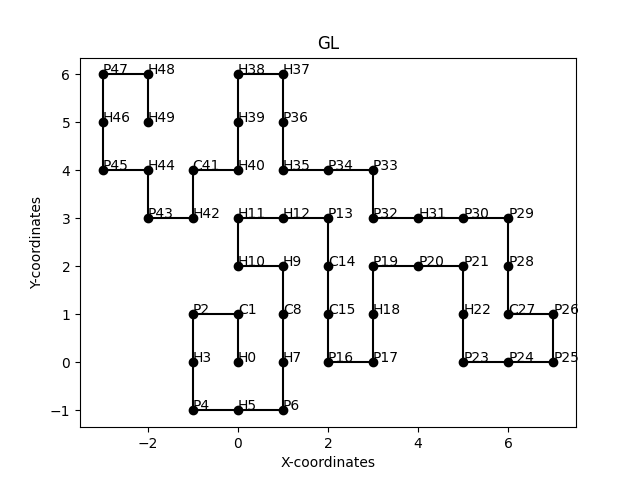
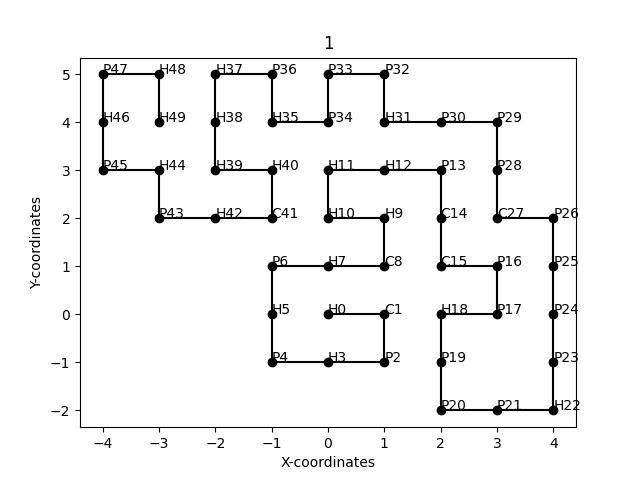
greedy lookahead works

diff --git a/code/algorithms/greedy.py b/code/algorithms/greedy.py
@@ -1,5 +1,5 @@
 from .random import Random
-from .depth_first import DepthFirst
+from .depth_first import DepthFirst, GreedyDepth
 from code.classes.protein import Protein
 from code.classes.aminoacid import AminoAcid
 import random
@@ -165,6 +165,9 @@ class Greedy(Random):
                     self.i -= 1
                     self.positionX = prev_coordinates[0]
                     self.positionY = prev_coordinates[1]
+                elif type(temp_i) is dict:
+                    protein.positions = temp_i
+                    break
                 else:
                     self.i = temp_i
                     self.positionX = temp_positionX
@@ -174,7 +177,7 @@ class Greedy(Random):
             self.add_solution(protein)
 
 
-class GreedyLookahead(Greedy, DepthFirst):
+class GreedyLookahead(Greedy, GreedyDepth):
     """
     The greedy lookahead algorithm will configure an X amount of amino acids at once
     to calculate a corresponding stability score.
@@ -184,33 +187,40 @@ class GreedyLookahead(Greedy, DepthFirst):
     def __init__(self, protein, lookahead):
         super().__init__(protein)
         self.lookahead = lookahead
-        self.states = []
 
 
     def get_best_fold(self, protein):
         '''
         Get's the best fold for the current amino acid, according to the depth first results.
         '''
+        start_state = self.get_start_state()
+
         # Run depth first with the current folded protein and the lookahead amino's
-        self.run_depthfirst()
+        depth_first = GreedyDepth(start_state)
+        depth_first.run_depthfirst()
 
         # Isolate information from best result from depth first algorithm
-        best_solution = self.get_best_solution()
+        best_solution = depth_first.get_best_solution()
 
         if not best_solution:
             return None
 
         dict_best = best_solution[1]
         best_values = list(dict_best.values())
-    
-        # Calculate the fold of the next amino acid in the protein
-        curr_amino = best_values[-self.lookahead]
+
+        # Terminate the depth first early when the last amino acids are positioned.
+        if len(dict_best) == len(protein.aminoacids):
+            return dict_best
+
+        curr_amino = best_values[-self.lookahead-1]
+        
         fold = curr_amino.folding
+        del start_state
 
         return fold
 
 
-    def initiate(self):
+    def get_start_state(self):
         '''
         Initiates first states in the stack for the depth first algorithm.
         '''
@@ -227,5 +237,5 @@ class GreedyLookahead(Greedy, DepthFirst):
                 remove = start_state.aminoacids[-1]
                 start_state.aminoacids.remove(remove)
 
-        # Add current state of the protein to the stack of depth first
-        self.states.append(start_state)
+        # Return part of the protein for the correct state state in depth first
+        return start_state

diff --git a/code/algorithms/depth_first.py b/code/algorithms/depth_first.py
@@ -27,12 +27,13 @@ class DepthFirst():
         '''
         Creates all possible child-states and adds them to the list of states.
         '''
-        last_folding = curr_state.aminoacids[curr_state.depth_index].folding
+        last_folding = curr_state.aminoacids[curr_state.depth_index-1].folding
         
         # Makes sure the amino acid does not fold back on itself
         if last_folding is not None:
-            last_folding = last_folding * -1
-            curr_state.depth_values.remove(last_folding)
+            last_folding *= -1
+            if last_folding in curr_state.depth_values:
+                curr_state.depth_values.remove(last_folding)
 
         # Gets a folding direction (value) from the possible foldings
         if curr_state.depth_values:
@@ -154,3 +155,22 @@ class DepthFirst():
         
         self.states.append(start_state1)
         self.states.append(start_state2)
+
+
+
+class GreedyDepth(DepthFirst):
+    '''
+    # TODO
+    Fixes correct communication between Greedy lookahead and DepthFirst.
+    '''
+    def __init__(self, protein):
+        super().__init__(protein)
+        self.states = [protein]
+
+
+    def initiate(self):
+        '''
+        Initiates first states in the stack for the depth first algorithm, in case greedy lookahead is requested.
+        '''
+        pass
+

diff --git a/code/algorithms/random.py b/code/algorithms/random.py
@@ -40,8 +40,11 @@ class Random():
             
             # TODO - maybe explain in more detail what the comment below means
             # Fail save for greedy algorithm
-            if new_coordinates == [None, None, None]:
+            if new_coordinates == [None]:
                 return 0, 0, 0
+            # Fail save for GreedyLookahead algorithm
+            elif type(new_coordinates) is dict:
+                return new_coordinates, 0, 0
             
             positionXb = new_coordinates[0]
             positionYb = new_coordinates[1]
@@ -107,8 +110,7 @@ class Random():
             copy_dict = copy.deepcopy(protein.positions)
             self.best = [score, copy_dict]
             del copy_dict
-            
-        
+
         self.solutions.append(score)
         protein.clear_protein()
 
@@ -130,7 +132,9 @@ class Random():
         # TODO - explain comment below
         # Fail save for greedy algorithm
         if folding == None:
-            return [None, None, None]
+            return [None]
+        elif type(folding) is dict:
+            return folding
         
         # Rotate amino acid over the X-axis
         if folding == 1 or folding == -1:

diff --git a/code/algorithms/hill_climber.py b/code/algorithms/hill_climber.py
@@ -1,5 +1,5 @@
 from .random import Random
-from code.classes.protein import Protein, Temp_Protein
+from code.classes.protein import Protein
 from random import choice, getrandbits, randint
 import copy
 
@@ -295,4 +295,3 @@ class HillClimber_Pull(HillClimber):
         C = (Cx, Cy)
 
         return C
-
